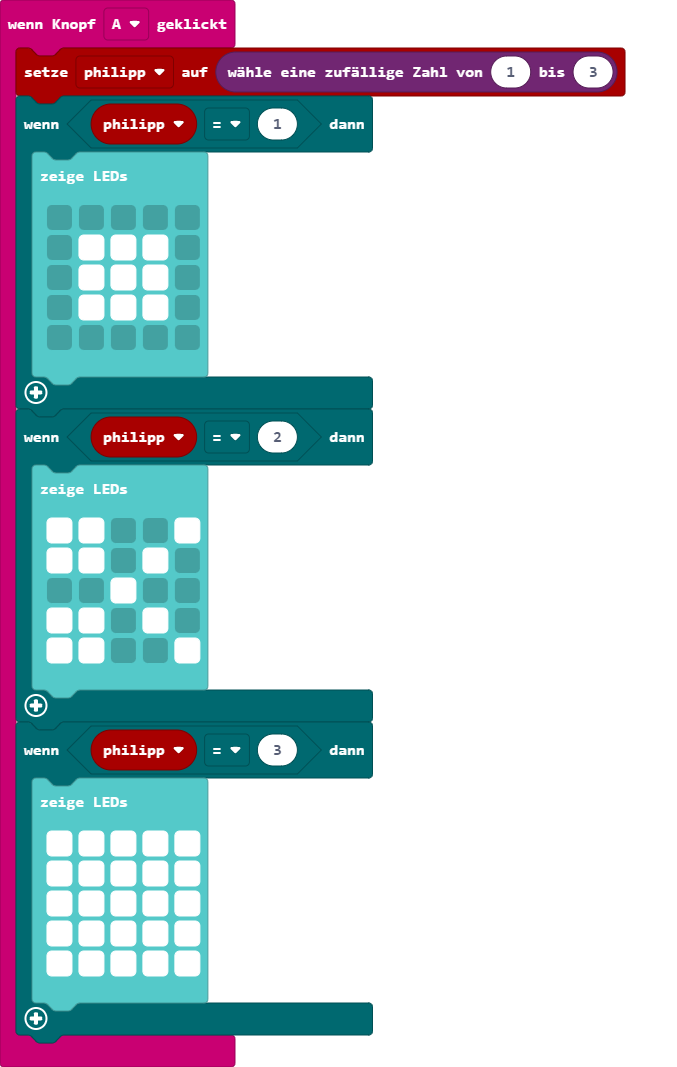
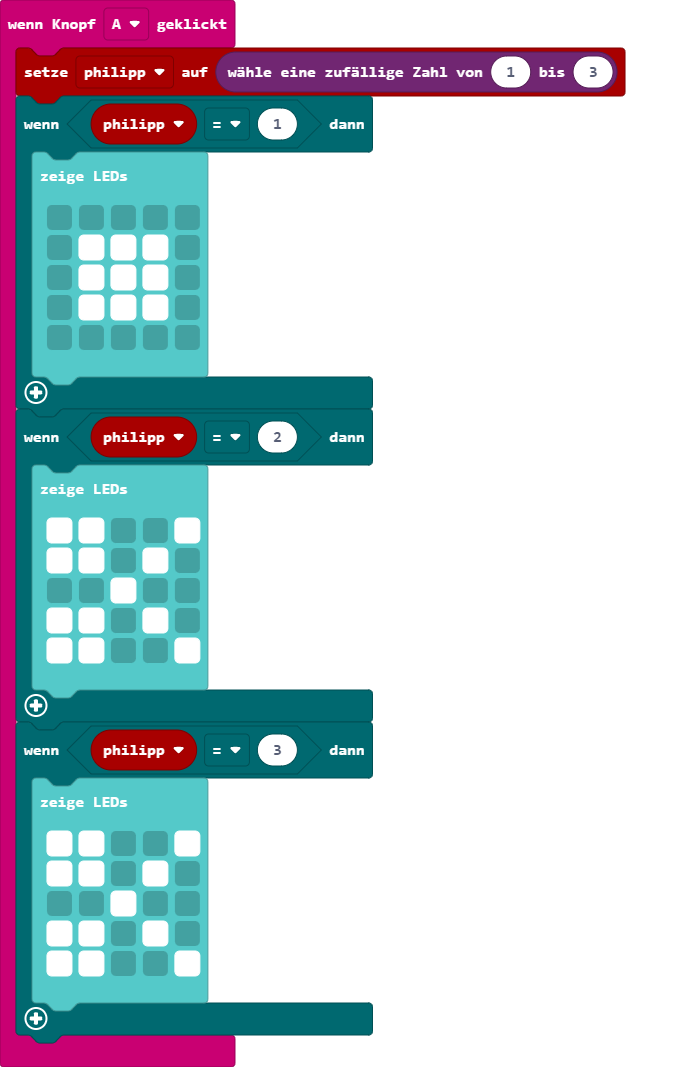
Aktualisiere pxt.json, main.blocks, main.ts

Changed region(s): [[0.1551, 0.7732, 0.3102, 0.9278], [0.062, 0.8351, 0.1551, 0.866]]

diff --git a/main.ts b/main.ts
@@ -21,11 +21,11 @@ input.onButtonPressed(Button.A, function () {
     }
     if (philipp == 3) {
         basic.showLeds(`
-            # # # # #
-            # # # # #
-            # # # # #
-            # # # # #
-            # # # # #
+            # # . . #
+            # # . # .
+            . . # . .
+            # # . # .
+            # # . . #
             `)
     }
 })
